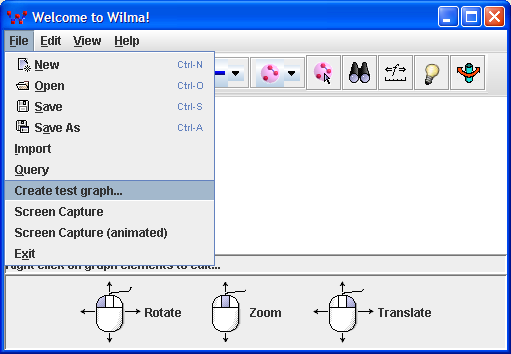
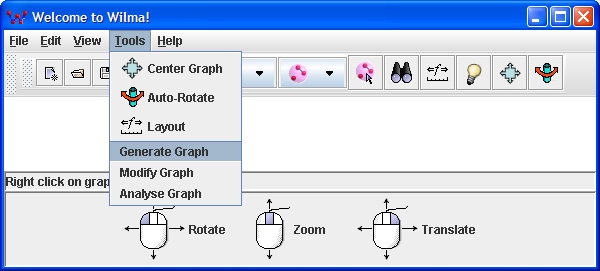
added info about modifier plugins

Changed region(s): [[0.0, 0.0, 1.0, 1.0]]

diff --git a/doc/ExtendingWilmaScope.html b/doc/ExtendingWilmaScope.html
@@ -18,7 +18,8 @@ visualisation system</h2>
     <li><a href="#Graph_Model">Graph Model</a> </li>
     <li><a href="#GraphControl_Bridge">GraphControl Bridge</a></li>
   </ul>
-  <li><a href="#Creating_Test_Graphs">Creating Test Graphs</a></li>
+  <li><a href="#Creating_Test_Graphs">Generating Graphs<br>
+    </a></li>
   <ul>
     <li><a href="#User_Interface">User Interface</a></li>
     <li><a href="#The_Graph_Generator_Framework">The Graph Generator
@@ -160,11 +161,13 @@ procedure for
 constructing a graph by implementing the GraphGenerator framework (see <a
  href="ExtendingWilmaScope.html#Creating_Test_Graphs">Creating Test
 Graphs</a>).</li>
-  <li><>New layout algorithms can also be added as plugins by extending
-the WilmaScope </><a
+  <li>&lt;&gt;New layout algorithms can also be added as plugins by
+extending
+the WilmaScope <a
  href="ExtendingWilmaScope.html#Creating_New_Layout_Engines">LayoutEngine
-framework</a><>. Such layout algorithms can use the WilmaScope graph
-data structures or they can use external graph datastructure</>
+framework</a>&lt;&gt;. Such layout algorithms can use the WilmaScope
+graph
+data structures or they can use external graph datastructure
 libraries such as Leda or yFiles. They can also potentially use other
 programs such as DOT (see Section 4). Developers can add plugins for
 new graphical representations for graph elements (glyphs). <br>
@@ -174,7 +177,7 @@ WilmaScope GraphCanvas and API in a custom GUI (see <a
  href="ExtendingWilmaScope.html#Creating_Applications_Based_on">Creating
 Applications Based on GraphCanvas</a> and
 also the <a href="index.html">WilmaScope Javadoc</a>).</li>
-  <></><li>A user can interact with the WilmaScope GUI to add or edit
+&lt;&gt;<li>A user can interact with the WilmaScope GUI to add or edit
 graph
 components (see the user help documentation).</li>
 </ul>
@@ -236,22 +239,34 @@ and
 When a GraphControl object is
 instantiated a root cluster is created upon which a graph may be
 built.&nbsp; As a basic example consider the following code fragment:<br>
-<br>
-<div style="margin-left: 40px;"><span style="font-style: italic;">//
+<span style="font-style: italic;"><br>
+</span>
+<div style="margin-left: 40px;"><span style="font-style: italic;">import
+org.wilmascope.control.GraphControl.Cluster;</span><span
+ style="font-style: italic;"></span><br>
+<span style="font-style: italic;">import
+org.wilmascope.control.GraphControl.Node;</span><span
+ style="font-style: italic;"></span><br>
+<span style="font-style: italic;">import
+org.wilmascope.control.GraphControl.Edge;</span><span
+ style="font-style: italic;"></span><br>
+<span style="font-style: italic;"></span><span
+ style="font-style: italic;">...<br>
+//
 add elements to an existing instance of graphControl</span><br
  style="font-style: italic;">
-<span style="font-style: italic;">GraphControl.Cluster root =
+<span style="font-style: italic;">Cluster root =
 graphControl.getRootCluster();</span><br style="font-style: italic;">
-<span style="font-style: italic;">GraphControl.Node a =
+<span style="font-style: italic;">Node a =
 root.addNode();</span><br style="font-style: italic;">
-<span style="font-style: italic;">GraphControl.Node b =
+<span style="font-style: italic;">Node b =
 root.addNode();</span><br style="font-style: italic;">
 <span style="font-style: italic;">root.addEdge(a,b);</span><br>
 </div>
 <br>
 We give more detailed examples of use of the API provided by the
 GraphControl class later.<br>
-<h2><a name="Creating_Test_Graphs"></a>Creating Test Graphs</h2>
+<h2><a name="Creating_Test_Graphs"></a>Plug-ins for Generating Graphs</h2>
 Wilma comes with a number of graph generators which create random or
 regular graphs for testing purposes.&nbsp; Creating a new graph
 generator is probably the easiest way to begin experimenting with the
@@ -266,7 +281,7 @@ Generator Window&#8221; which is accessed by the user from the
 <div style="text-align: center;"><img
  alt="Opening Graph Generator Window"
  src="ExtendingWilmaScope_files/image007.png"
- style="width: 511px; height: 354px;"><br>
+ style="width: 600px; height: 271px;"><br>
 Figure 4: Accessing the graph generator window.<br>
 </div>
 <br>
@@ -352,8 +367,58 @@ trigger automatic layout using the root cluster&#8217;s unfreeze method which
 would also handle the redraw. </li>
   </ul>
 </ul>
-<h2><a name="Creating_Applications_Based_on"></a>Creating Applications
-Based on GraphCanvas</h2>
+<h2><a name="Creating_Applications_Based_on"></a>Plug-ins for Modifying
+Existing Graphs and Clusters</h2>
+Often it is useful to procedurally modify the structure of an existing
+graph or cluster.&nbsp; Plug-ins for effecting this functionality are
+made possible by the GraphModifier framework.&nbsp; A GraphModifier
+plug-in extends the org.wilmascope.graphmodifier.GraphModifier abstract
+class and must implement three methods:<br>
+<ul>
+  <li>getName - you should simply return a string constant that is a
+unique
+identifier.&nbsp; This string will appear in the Graph Modifier Window
+list so give it a capital letter and spaces where necessary. </li>
+  <li>modify &#8211; this method will do the work of actually modifying the
+specified cluster.<br>
+  </li>
+  <li>getControls &#8211; the best way to use this is to create a JPanel with
+controls for setting parameters for your graph generator in your
+constructor and ensure that the getControls method returns a reference
+to it.</li>
+</ul>
+The user can invoke one of these plugins either:<br>
+<ul>
+  <li>for the graph (root cluster) - by selecting "Modify Graph" from
+the tools menu; or</li>
+  <li>for a particular cluster - by right clicking the cluster and
+selecting "Modify Cluster" from the resultant cluster options menu</li>
+</ul>
+<div style="text-align: center;"><img alt="Modifying a cluster"
+ src="ExtendingWilmaScope_files/modifycluster.png"
+ style="width: 600px; height: 490px;"><br>
+<br>
+<div style="text-align: left;">As of writing this document WilmaScope
+includes the following graph modifier plug-ins:<br>
+<br>
+<ul>
+  <li>ChangeViews - replace the GraphElementViews of nodes and/or edges
+with the current default settings from the toolbar.</li>
+  <li>CopyCluster - copy either the root graph or a particular cluster</li>
+  <li>DirectedCycleRemoval - reverse the direction of edges such that
+the graph is acyclic.</li>
+  <li>InsertDummyNodes - if LevelConstraints are defined, this inserts
+dummy nodes into edges that span multiple levels</li>
+  <li>KMeansClustering - creates clusters around nodes that are close
+together in the current layout</li>
+  <li>LongestPathLayering - assigns nodes to LevelConstraints such that
+edges are monotonically directed (uses DirectedCycleRemoval).<br>
+  </li>
+</ul>
+<br>
+<br>
+</div>
+</div>
 <h2><a name="File_Formats"></a>File Formats</h2>
 The easiest way to visualise graphs from other data sources is to
 convert them into a file format that WilmaScope understands and then
